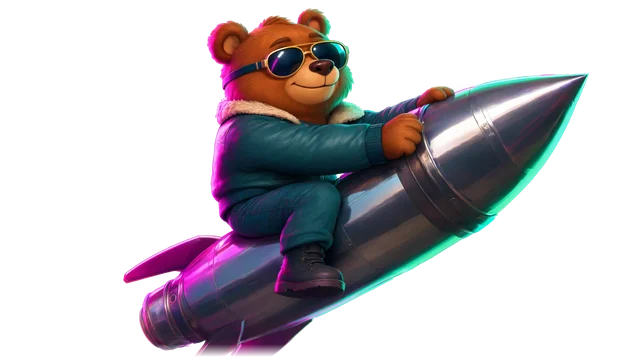
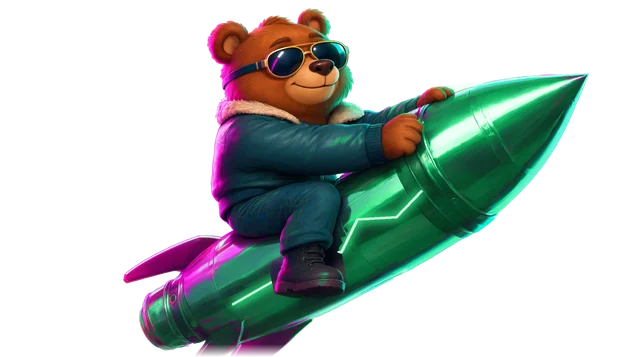
Prototype: the green rocket and a pose change inside a motion
The kit builder turns the riding pictures' silver chrome emerald (grey metal and the sky's
blue-violet in it; the hot pink and cyan rims, the violet fins and the bear keep their
colours, the boot keeps its dark leather) and paints the neon zig-zag on the hull, under the
bear's leg. The generator's empty rocket is laid onto the same axis (scaled and turned by
the fitted axes) and turned green the same way, so the bail-out keeps the same rocket.
--ride-only rebuilds just the riding pictures.

The scene changes the pose inside a motion instead of a plain fade: a dip, a kick up with a
flame burst where the picture swaps in 0.05 s under a warm flash, sparks and a ring at the
bear's chest, then a settle with an overshoot. No pose change during the engine stall (no
scared picture yet), and the pad starts calm without a hop.

Changed region(s): [[0.2188, 0.2157, 0.9062, 0.986], [0.5312, 0.3697, 0.5625, 0.4006], [0.3125, 0.6471, 0.3438, 0.6779]]

diff --git a/app/proto/scene2.js b/app/proto/scene2.js
@@ -327,8 +327,15 @@ function create(cv,opts){
     const mood=st.phase==='stall'?'scared':st.phase==='wait'?'calm':st.m>1.3?'hype':'calm';
     const pose=st.phase==='stall'?'scared':st.phase==='fly'?(st.m>1.6?'cheer':'grip'):'grip';
     bear.update(dt,t,pose,mood);
-    let face=st.phase==='stall'?'scared':st.phase==='fly'&&st.m>=1.25?'hype':'calm';if(KIT.ride&&!KIT.ride.faces.includes(face))face='calm';
-    if(face!==st.face){st.facePrev=st.face||face;st.face=face;st.faceT=0}st.faceT=Math.min(1,(st.faceT||0)+dt/.2);
+    let face=st.phase==='stall'?'scared':st.phase==='fly'&&st.m>=1.25?'hype':'calm';if(KIT.ride&&!KIT.ride.faces.includes(face))face=st.face||'calm';
+    if(face!==st.face){st.facePrev=st.face||face;st.face=face;st.faceT=st.phase==='wait'?1:0;
+      // the riding pictures change pose inside a motion: a dip, a kick up (the swap happens here), a settle
+      if(KIT.ride&&st.phase==='fly')st.pop={t:0,sparked:false}}
+    if(st.pop){const p=st.pop;p.t+=dt;st.faceT=clamp((p.t-.12)/.05,0,1);
+      if(!p.sparked&&p.t>=.1){p.sparked=true;const c=seat();st.fire.push({x:c.x,y:c.y-8*kh,r:46*kh,t:0,d:.22,col:'white'});st.rings.push({x:c.x,y:c.y,t:0,d:.45,r0:6,r1:46*kh,col:'255,225,120',w:3});
+        for(let i=0;i<18;i++){const a=rnd(0,TAU),v=rnd(90,230)*k;st.sparks.push({x:c.x,y:c.y,vx:Math.cos(a)*v,vy:Math.sin(a)*v-40*k,life:rnd(.35,.7),max:.7,col:['#ffd23f','#2bff88','#29e6ff','#fff3b0'][i%4],w:2})}}
+      if(p.t>.55)st.pop=null}
+    else st.faceT=Math.min(1,(st.faceT||0)+dt/.2);
     const j=st.jumper;if(j){j.t+=dt;if(j.t<.45){j.vy+=900*k*dt;j.rot+=j.vr*dt}else{j.open=Math.min(1,j.open+dt/.4);j.rot*=1-Math.min(1,dt*6);j.vy+=(70*k-j.vy)*dt*2.4;j.vx*=1-dt*1.4}
       j.x+=j.vx*dt+cdx*.6;j.y+=j.vy*dt+cdy*.6;jbear.update(dt,t,j.open>0?'hang':'cheer','win');if(j.y>H+160*k)st.jumper=null}
     const tb=st.tumble;if(tb){tb.vy+=700*k*dt;tb.x+=tb.vx*dt;tb.y+=tb.vy*dt;tb.rot+=tb.vr*dt;jbear.update(dt,t,'fall','scared');if(tb.y>H+120*k)st.tumble=null}
@@ -380,8 +387,8 @@ function create(cv,opts){
       g.save();g.translate(p.x,p.y);g.rotate(p.rot);g.drawImage(spr,-sz/2,-sz/2,sz,sz);g.restore()}g.globalAlpha=1;
     // the rocket, its flame, and the bear astride it
     const r=st.rk;if(r.vis){g.save();g.translate(r.x,r.y);g.rotate(r.ang);
-      const firing=st.phase==='fly'||(st.phase==='wait'&&st.t>2.6),stall=st.phase==='stall';
-      if(firing||stall)flame(g,t,stall?(Math.sin(t*40)>0?.35:.05):st.phase==='fly'?1+Math.min(.6,Math.log(st.m)*.3):.35);
+      const firing=st.phase==='fly'||(st.phase==='wait'&&st.t>2.6),stall=st.phase==='stall',P=popPose();g.translate(0,P.y*kh);g.rotate(P.r);
+      if(firing||stall)flame(g,t,stall?(Math.sin(t*40)>0?.35:.05):st.phase==='fly'?(1+Math.min(.6,Math.log(st.m)*.3))*(1+P.boost*.7):.35);
       if(KIT.ride){rideDraw(g,t,r,stall)}else{
       if(st.rider&&!KIT.ready){g.save();g.translate(RK.seat[0]*kh,RK.seat[1]*kh);g.rotate(-r.ang*.8);g.scale(kh*BS,kh*BS);bear.back(g);g.restore()}
       const s=rocketCv.s;g.drawImage(stall&&Math.sin(t*50)>0?rocketRed:rocketCv,-rocketCv.ox*kh,-rocketCv.oy*kh,rocketCv.width/s*kh,rocketCv.height/s*kh);
@@ -411,6 +418,11 @@ function create(cv,opts){
 
   // the bear riding the rocket in one picture: turned from its own tilt to the flight angle, faces cross-fading;
   // after the bail-out, the rocket alone. Called inside the rocket's frame (origin at its middle, x along the axis).
+  /** The pose-change motion: dip 0-.11 s, kick up .11-.22 s, settle with an overshoot to .55 s. */
+  function popPose(){const p=st.pop;if(!p)return{y:0,r:0,boost:0};const t=p.t;
+    if(t<.11){const e=sm(t/.11);return{y:3*e,r:.02*e,boost:0}}
+    if(t<.22){const e=sm((t-.11)/.11);return{y:lerp(3,-7,e),r:lerp(.02,-.05,e),boost:Math.sin(e*Math.PI)}}
+    const e=easeBack(clamp((t-.22)/.33,0,1));return{y:lerp(-7,0,e),r:lerp(-.05,0,e),boost:0}}
   function rideDraw(g,t,r,stall){const D=KIT.ride,s=kh*D.rs,red=stall&&Math.sin(t*50)>0;
     g.save();g.rotate(-D.angle);g.scale(s,s);g.translate(-D.M[0],-D.M[1]);
     const img=f=>red?KIT.red[f]:KIT.img['ride-'+f],draw=(f,a)=>{if(a<=0)return;g.globalAlpha=a;g.drawImage(img(f),0,0,D.w,D.h)};

diff --git a/app/proto/index.html b/app/proto/index.html
@@ -39,7 +39,7 @@ html,body{height:100%;margin:0;background:#07040f;color:var(--text);font:14px/1.
     <div class="note">Прототип новой графики: раунды идут сами. «Забрать» в полёте — катапульта с парашютом.</div>
   </div>
 </div>
-<script src="scene2.js?v=3"></script>
+<script src="scene2.js?v=5"></script>
 <script>
 (()=>{
 const $=id=>document.getElementById(id),cv=$('cv'),stage=$('stage'),scene=Scene2.create(cv,{kit:"../art/bear/"});

diff --git a/art-kits/tools/bear_kit.py b/art-kits/tools/bear_kit.py
@@ -207,8 +207,115 @@ def fade_bottom(im, frac=.16):
     return Image.fromarray(a, 'RGBA')
 
 
+# ---------------- the bear riding the rocket ----------------
+RIDE_K = .32                                     # the riding pictures are made 2000 px wide; the game files are 640
+RIDE_TIP, RIDE_TAIL = (1835, 232), (470, 1010)   # rough nose tip and nozzle in the riding pictures (the axis is fitted)
+BOOT = [(850, 772), (1005, 765), (1068, 795), (1082, 880), (1058, 920), (858, 920), (845, 860)]   # the near boot, on the hull
+GREEN = [(0, (2, 14, 8)), (.1, (4, 48, 27)), (.25, (8, 112, 62)), (.42, (18, 176, 98)), (.6, (60, 230, 140)), (.8, (165, 255, 205)), (1, (240, 255, 248))]
+
+
+def axis_frame(shape, tail, tip):
+    """Per pixel: S along the axis from the tail, D across it (positive below), and the axis length."""
+    L = np.linalg.norm(tip - tail); u = (tip - tail) / L; n = np.array([-u[1], u[0]])
+    yy, xx = np.mgrid[0:shape[0], 0:shape[1]]
+    rx, ry = xx - tail[0], yy - tail[1]
+    return rx * u[0] + ry * u[1], rx * n[0] + ry * n[1], L, u, n
+
+
+def hull_radius(A, S, D, L):
+    """The hull's half width along the axis, from its free lower edge; the rear (fins, the cut bottom) keeps the middle's."""
+    rs = np.zeros(int(L) + 5)
+    below = A & (D > 0)
+    for s in range(0, int(L) + 1, 4):
+        sel = below & (np.abs(S - s) < 2)
+        rs[s:s + 4] = D[sel].max() if sel.any() else 0
+    mid = np.median(rs[int(L * .3):int(L * .55)])
+    rs[:int(L * .3)] = mid
+    return lambda s: np.interp(s, np.arange(len(rs)), rs)
+
+
+def greenify(img, tail, tip, protect=None):
+    """The silver chrome of the hull turned emerald, like the separate rocket, with its neon zig-zag along the body.
+    Only grey metal inside the hull changes: the bear, the pink and cyan rims and the violet fins keep their colours."""
+    a = np.asarray(img).astype(np.float32); rgb = a[..., :3] / 255; al = a[..., 3]
+    S, D, L, u, n = axis_frame(al.shape, tail, tip)
+    rad = hull_radius(al > 128, S, D, L)
+    hull = (S > -L * .03) & (S < L * 1.01) & (np.abs(D) <= rad(np.clip(S, 0, L)) + 4) & (al > 0)
+    mx, mn = rgb.max(axis=2), rgb.min(axis=2); sat = (mx - mn) / (mx + 1e-4); Y = rgb @ np.array([.299, .587, .114])
+    # grey metal and the sky's blue-violet in it turn green; the hot pink and cyan rims (strong colour) stay
+    hue = np.degrees(np.arctan2(np.sqrt(3) * (rgb[..., 1] - rgb[..., 2]), 2 * rgb[..., 0] - rgb[..., 1] - rgb[..., 2])) % 360
+    rim = (sat > .5) & (((hue > 280) | (hue < 20)) | ((hue > 140) & (hue < 200)))
+    w = np.clip(1.25 - sat / .6, 0, 1) * hull * ~rim
+    if protect is not None:                       # the boot: its dark leather stays, the bright hull around it turns
+        pm = Image.new('L', img.size); ImageDraw.Draw(pm).polygon(protect, fill=255)
+        w = np.where((np.asarray(pm) > 0) & (Y < .3), 0, w)
+    xs = [p for p, _ in GREEN]; ramp = np.stack([np.interp(Y, xs, [c[i] for _, c in GREEN]) for i in range(3)], -1)
+    out = a.copy(); out[..., :3] = a[..., :3] * (1 - w[..., None]) + ramp * w[..., None]
+    # the zig-zag: a glow and a core, only on the metal (the boot and the legs cover it)
+    r0 = float(rad(L * .45))
+    pts = [(L * s, r0 * d) for s, d in [(.16, .22), (.27, .22), (.32, .02), (.4, .34), (.46, .06), (.53, .3), (.6, .16)]]
+    to_xy = lambda s, d: (tail[0] + u[0] * s + n[0] * d, tail[1] + u[1] * s + n[1] * d)
+    line = [to_xy(s, d) for s, d in pts]
+    glow = Image.new('L', img.size); ImageDraw.Draw(glow).line(line, fill=255, width=max(4, int(r0 * .12)), joint='curve')
+    glow = np.asarray(glow.filter(ImageFilter.GaussianBlur(r0 * .06))).astype(np.float32) / 255
+    core = Image.new('L', img.size); ImageDraw.Draw(core).line(line, fill=255, width=max(2, int(r0 * .035)), joint='curve')
+    core = np.asarray(core.filter(ImageFilter.GaussianBlur(1))).astype(np.float32) / 255
+    metal = (w > .5).astype(np.float32)
+    g1 = (glow * .85 * metal)[..., None]; c1 = (core * metal)[..., None]
+    out[..., :3] = out[..., :3] * (1 - g1) + np.array([43, 255, 136]) * g1
+    out[..., :3] = out[..., :3] * (1 - c1) + np.array([210, 255, 230]) * c1
+    return Image.fromarray(np.clip(out, 0, 255).astype(np.uint8), 'RGBA')
+
+
+def cut_ride(path):
+    sp = Image.open(path)
+    c = restore_convex(sp, holes(sp, remove_white(sp)), 1262)
+    a = np.asarray(c).copy(); hgt = a.shape[0]; n = 40          # the picture's cut bottom edge melts away
+    a[hgt - n:, :, 3] = (a[hgt - n:, :, 3] * np.linspace(1, 0, n)[:, None]).astype(np.uint8)
+    return Image.fromarray(a, 'RGBA')
+
+
+def build_ride(kit):
+    """The bear riding the rocket, one picture per face (edits of one picture: same rocket, same framing), the rocket
+    turned green, and the rocket alone for the bail-out laid along the same axis."""
+    faces = [f for f in ['calm', 'hype', 'scared'] if os.path.exists(os.path.join(SRC, 'ride-' + f + '.webp'))]
+    if not faces:
+        return
+    ride = {f: cut_ride(os.path.join(SRC, 'ride-' + f + '.webp')) for f in faces}
+    tail, tip, ang = rocket_axis(ride[faces[0]], RIDE_TIP, RIDE_TAIL)
+    print('ride axis', tail.round(1), tip.round(1), round(np.degrees(ang), 2), file=sys.stderr)
+    for f, im in ride.items():
+        scale(greenify(im, tail, tip, BOOT), RIDE_K).save(os.path.join(OUT, 'ride-' + f + '.webp'), 'WEBP', quality=86, method=6)
+    W0, H0 = ride[faces[0]].size
+    kit['ride'] = {'w': round(W0 * RIDE_K), 'h': round(H0 * RIDE_K), 'tail': (tail * RIDE_K).round(1).tolist(), 'tip': (tip * RIDE_K).round(1).tolist(),
+                   'angle': round(ang, 4), 'chest': [round(860 * RIDE_K), round(440 * RIDE_K)], 'faces': faces}
+    ep = os.path.join(SRC, 'ride-empty.webp')
+    if os.path.exists(ep):
+        e = cut_ride(ep)
+        A = np.asarray(e)[..., 3] > 128; ys, xs = np.where(A)
+        tip_g = (xs.max(), ys[xs == xs.max()].mean())
+        tail_g = (xs.min() + 60, ys[xs == xs.min()].mean())       # rough, the axis fit refines it
+        et, ep2, ea = rocket_axis(e, tip_g, tail_g)
+        k = np.linalg.norm(tip - tail) / np.linalg.norm(ep2 - et); rot = ang - ea
+        c, s_ = np.cos(rot) * k, np.sin(rot) * k
+        # output = M @ input + t: the empty rocket scaled and turned onto the riding rocket's axis, tips together
+        M = np.array([[c, -s_], [s_, c]]); t = tip - M @ ep2
+        Mi = np.linalg.inv(M); ti = -Mi @ t
+        e = e.transform((W0, H0), Image.AFFINE, (Mi[0, 0], Mi[0, 1], ti[0], Mi[1, 0], Mi[1, 1], ti[1]), resample=Image.BICUBIC)
+        print('empty rocket: scale', round(k, 3), 'turn', round(np.degrees(rot), 2), file=sys.stderr)
+        scale(greenify(e, tail, tip), RIDE_K).save(os.path.join(OUT, 'ride-empty.webp'), 'WEBP', quality=86, method=6)
+
+
 if __name__ == '__main__':
     os.makedirs(OUT, exist_ok=True)
+    if '--ride-only' in sys.argv:                 # just the riding pictures (the heads fit takes minutes)
+        with open(os.path.join(OUT, 'kit.json')) as fh:
+            kit = json.load(fh)
+        build_ride(kit)
+        with open(os.path.join(OUT, 'kit.json'), 'w') as fh:
+            json.dump(kit, fh, indent=1)
+        print(json.dumps(kit.get('ride')))
+        sys.exit(0)
     src, cut = {}, {}
     for name in ['bear-cheer', 'bear-hang', 'bear-fall', 'bear-heads', 'rocket']:
         src[name] = Image.open(os.path.join(SRC, name + '.png'))
@@ -289,47 +396,7 @@ if __name__ == '__main__':
     im.save(os.path.join(OUT, 'rocket.webp'), 'WEBP', quality=86, method=6)
     rp = {'nozzle': (96, 445), 'tip': (1700, 432), 'seat': (1195, 290)}
     kit['rocket'] = {'w': im.width, 'h': im.height, **{p: [round((x - ox) * k), round((y - oy) * k)] for p, (x, y) in rp.items()}}
-    # the bear riding the rocket, one picture per face (edits of one picture: same rocket, same framing)
-    RIDE_K = .32
-    faces = [f for f in ['calm', 'hype', 'scared'] if os.path.exists(os.path.join(SRC, 'ride-' + f + '.webp'))]
-    if faces:
-        ride = {}
-        for f in faces:
-            sp = Image.open(os.path.join(SRC, 'ride-' + f + '.webp'))
-            c = restore_convex(sp, holes(sp, remove_white(sp)), 1262)
-            a = np.asarray(c).copy(); hgt = a.shape[0]; n = 40          # the picture's cut bottom edge melts away
-            a[hgt - n:, :, 3] = (a[hgt - n:, :, 3] * np.linspace(1, 0, n)[:, None]).astype(np.uint8)
-            ride[f] = Image.fromarray(a, 'RGBA')
-        tail, tip, ang = rocket_axis(ride[faces[0]], (1835, 232), (470, 1010))
-        print('ride axis', tail.round(1), tip.round(1), round(np.degrees(ang), 2), file=sys.stderr)
-        for f, im in ride.items():
-            scale(im, RIDE_K).save(os.path.join(OUT, 'ride-' + f + '.webp'), 'WEBP', quality=86, method=6)
-        W0, H0 = ride[faces[0]].size
-        kit['ride'] = {'w': round(W0 * RIDE_K), 'h': round(H0 * RIDE_K), 'tail': (tail * RIDE_K).round(1).tolist(), 'tip': (tip * RIDE_K).round(1).tolist(),
-                       'angle': round(ang, 4), 'chest': [round(860 * RIDE_K), round(440 * RIDE_K)], 'faces': faces}
-        # the rocket alone for the bail-out: the generator's own (ride-empty) or, until then, the separate rocket
-        # turned silver and laid along the same axis
-        ep = os.path.join(SRC, 'ride-empty.webp')
-        if os.path.exists(ep):
-            sp = Image.open(ep); e = restore_convex(sp, holes(sp, remove_white(sp)), 1262)
-        else:
-            r = cut['rocket']; ra = np.asarray(r).astype(np.float32)
-            g = ra[..., 1] > ra[..., 0] + 25                              # the green hull -> grey chrome
-            lum = ra[..., :3].mean(axis=2, keepdims=True) * 1.15
-            ra[..., :3] = np.where(g[..., None], np.clip(lum * np.array([1.0, 1.0, 1.06]), 0, 255), ra[..., :3])
-            r = Image.fromarray(ra.astype(np.uint8), 'RGBA')
-            rx, ry = np.array([96., 445.]), np.array([1700., 432.])      # its nozzle and tip in the source picture
-            k2 = np.linalg.norm(tip - tail) / np.linalg.norm(ry - rx) * 1.04
-            r = scale(r, k2); rx, ry = rx * k2, ry * k2
-            rot = -np.degrees(ang - np.arctan2(ry[1] - rx[1], ry[0] - rx[0]))
-            c0 = np.array(r.size) / 2
-            r2 = r.rotate(rot, resample=Image.BICUBIC, expand=True)
-            c1 = np.array(r2.size) / 2; th = np.radians(-rot)
-            R = np.array([[np.cos(th), -np.sin(th)], [np.sin(th), np.cos(th)]])
-            tip_r = R @ (ry - c0) + c1
-            e = Image.new('RGBA', (W0, H0)); off = (tip - tip_r).round().astype(int)
-            e.alpha_composite(r2.crop((max(0, -off[0]), max(0, -off[1]), r2.width, r2.height)), (max(0, off[0]), max(0, off[1])))
-        scale(e, RIDE_K).save(os.path.join(OUT, 'ride-empty.webp'), 'WEBP', quality=86, method=6)
+    build_ride(kit)
     with open(os.path.join(OUT, 'kit.json'), 'w') as fh:
         json.dump(kit, fh, indent=1)
     for fn in sorted(os.listdir(OUT)):
